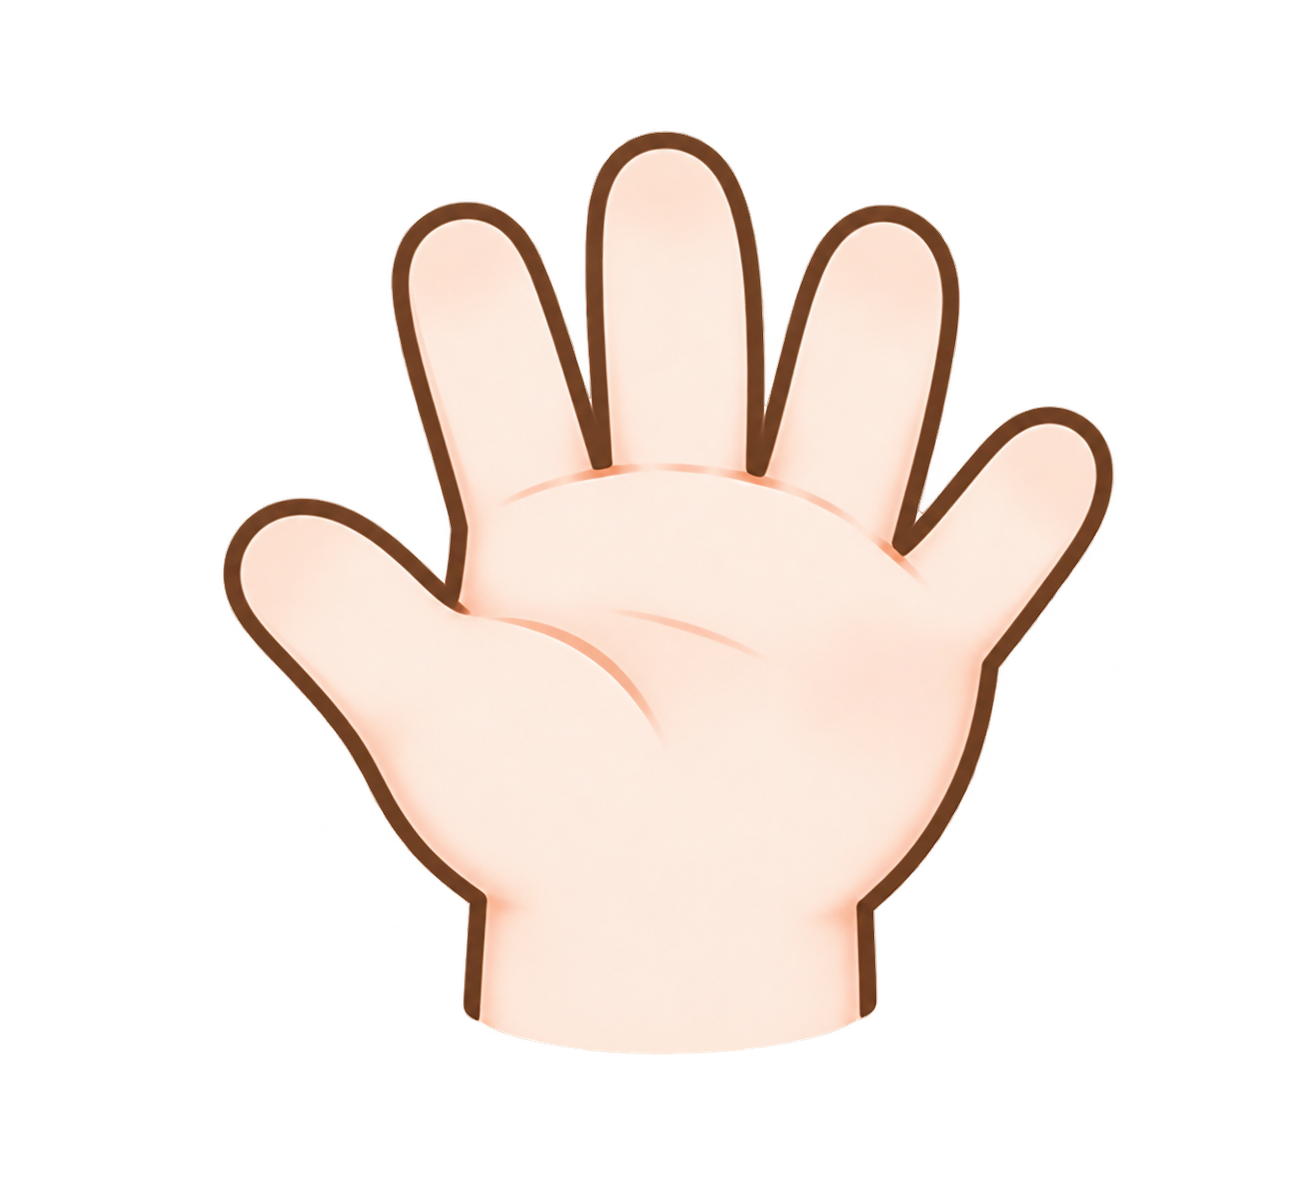
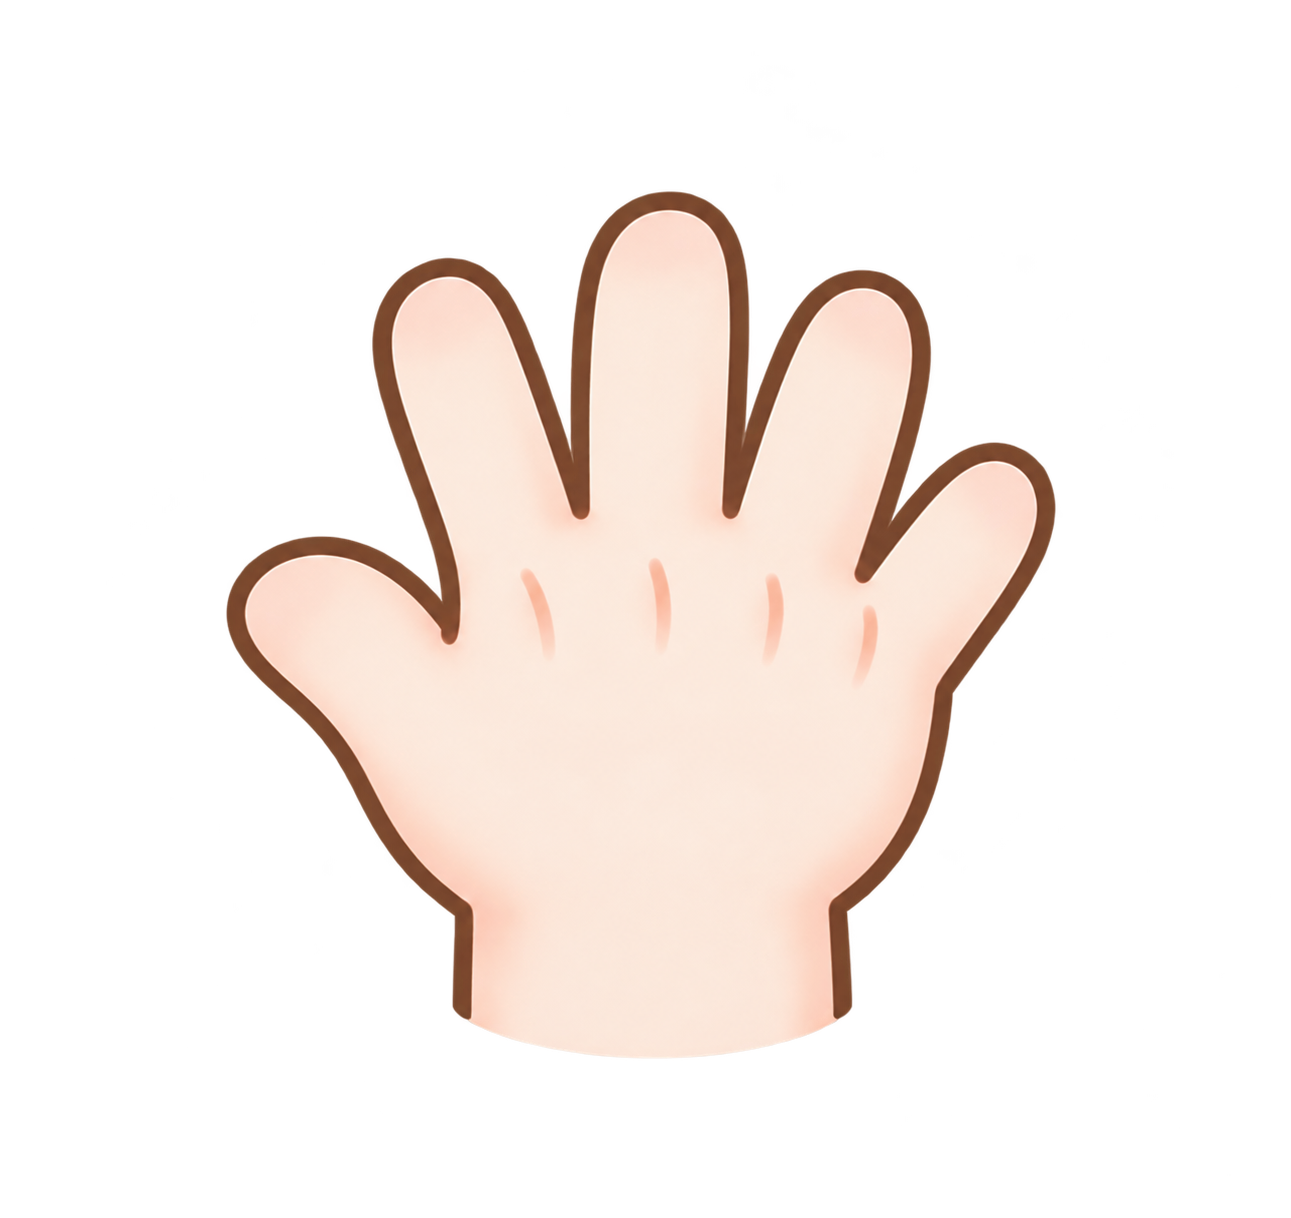
손 커서 이미지 교체 및 터치 클릭 상태 전환

diff --git a/components/custom-cursor.tsx b/components/custom-cursor.tsx
@@ -5,6 +5,7 @@ import { useEffect, useRef, useState } from "react"
 type CursorMode = "open" | "grab" | "scan"
 
 // 원본 이미지 크기와 클릭 기준점(hotspot, 원본 px). width는 화면 폭에 따라 줄어드는 CSS 폭입니다.
+// 두 손은 같은 배율(HAND_SCALE)로 그려서, 눌러도 손 크기가 바뀌지 않고 손목 위치도 그대로입니다.
 type CursorImage = {
   src: string
   natural: [w: number, h: number]
@@ -12,9 +13,11 @@ type CursorImage = {
   width: string
 }
 
+const HAND_SCALE = "clamp(0.0263px, 0.005vw, 0.0715px)"
+
 const IMAGES: Record<CursorMode, CursorImage> = {
-  open: { src: "/cursor/hand-palm.png", natural: [1312, 1199], hotspot: [668, 140], width: "clamp(32px, 6.1vw, 88px)" },
-  grab: { src: "/cursor/hand-grab.png", natural: [313, 343], hotspot: [123, 74], width: "clamp(29px, 5.55vw, 80px)" },
+  open: { src: "/cursor/hand-palm.png", natural: [1291, 1218], hotspot: [670, 192], width: `calc(1291 * ${HAND_SCALE})` },
+  grab: { src: "/cursor/hand-grab.png", natural: [1254, 1254], hotspot: [657, 196], width: `calc(1254 * ${HAND_SCALE})` },
   scan: { src: "/cursor/scanner-clear.png", natural: [1536, 1024], hotspot: [395, 366], width: "clamp(43px, 8.2vw, 118px)" },
 }
 
@@ -27,25 +30,36 @@ function inCheckout(): boolean {
   return rect.top <= window.innerHeight * 0.5 && rect.bottom > 0
 }
 
+// 터치에서는 손가락을 대는 동안 움켜진 손, 떼면 펼친 손을 잠깐 보여준 뒤 사라집니다.
+const TOUCH_HIDE_MS = 450
+
 export function CustomCursor() {
   const rootRef = useRef<HTMLDivElement>(null)
   const [enabled, setEnabled] = useState(false)
+  const [finePointer, setFinePointer] = useState(false)
   const [pressed, setPressed] = useState(false)
   const [checkout, setCheckout] = useState(false)
   const [visible, setVisible] = useState(false)
 
   useEffect(() => {
     const media = window.matchMedia("(hover: hover) and (pointer: fine)")
-    const sync = () => setEnabled(media.matches)
+    const sync = () => setFinePointer(media.matches)
     sync()
+    setEnabled(true)
     media.addEventListener("change", sync)
     return () => media.removeEventListener("change", sync)
   }, [])
 
   useEffect(() => {
-    if (!enabled) return
+    if (!finePointer) return
     const html = document.documentElement
     html.classList.add("custom-cursor")
+    return () => html.classList.remove("custom-cursor")
+  }, [finePointer])
+
+  useEffect(() => {
+    if (!enabled) return
+    let hideTimer = 0
 
     let raf = 0
     const updateZone = () => setCheckout(inCheckout())
@@ -53,16 +67,28 @@ export function CustomCursor() {
       cancelAnimationFrame(raf)
       raf = requestAnimationFrame(updateZone)
     }
-    const onMove = (e: PointerEvent) => {
-      if (e.pointerType !== "mouse") return
+    const moveTo = (e: PointerEvent) => {
       const el = rootRef.current
       if (el) el.style.transform = `translate3d(${e.clientX}px, ${e.clientY}px, 0)`
+    }
+    const onMove = (e: PointerEvent) => {
+      if (e.pointerType !== "mouse" && !e.buttons) return
+      moveTo(e)
       setVisible(true)
     }
     const onDown = (e: PointerEvent) => {
-      if (e.pointerType === "mouse") setPressed(true)
+      window.clearTimeout(hideTimer)
+      moveTo(e)
+      setVisible(true)
+      setPressed(true)
     }
-    const onUp = () => setPressed(false)
+    const onUp = (e?: Event) => {
+      setPressed(false)
+      if (e instanceof PointerEvent && e.pointerType !== "mouse") {
+        window.clearTimeout(hideTimer)
+        hideTimer = window.setTimeout(() => setVisible(false), TOUCH_HIDE_MS)
+      }
+    }
     const onLeave = (e: MouseEvent) => {
       if (!e.relatedTarget) setVisible(false)
     }
@@ -71,16 +97,18 @@ export function CustomCursor() {
     window.addEventListener("pointermove", onMove, { passive: true })
     window.addEventListener("pointerdown", onDown)
     window.addEventListener("pointerup", onUp)
+    window.addEventListener("pointercancel", onUp)
     window.addEventListener("blur", onUp)
     window.addEventListener("scroll", onScroll, { passive: true })
     window.addEventListener("resize", onScroll)
     document.addEventListener("mouseout", onLeave)
     return () => {
       cancelAnimationFrame(raf)
-      html.classList.remove("custom-cursor")
+      window.clearTimeout(hideTimer)
       window.removeEventListener("pointermove", onMove)
       window.removeEventListener("pointerdown", onDown)
       window.removeEventListener("pointerup", onUp)
+      window.removeEventListener("pointercancel", onUp)
       window.removeEventListener("blur", onUp)
       window.removeEventListener("scroll", onScroll)
       window.removeEventListener("resize", onScroll)
